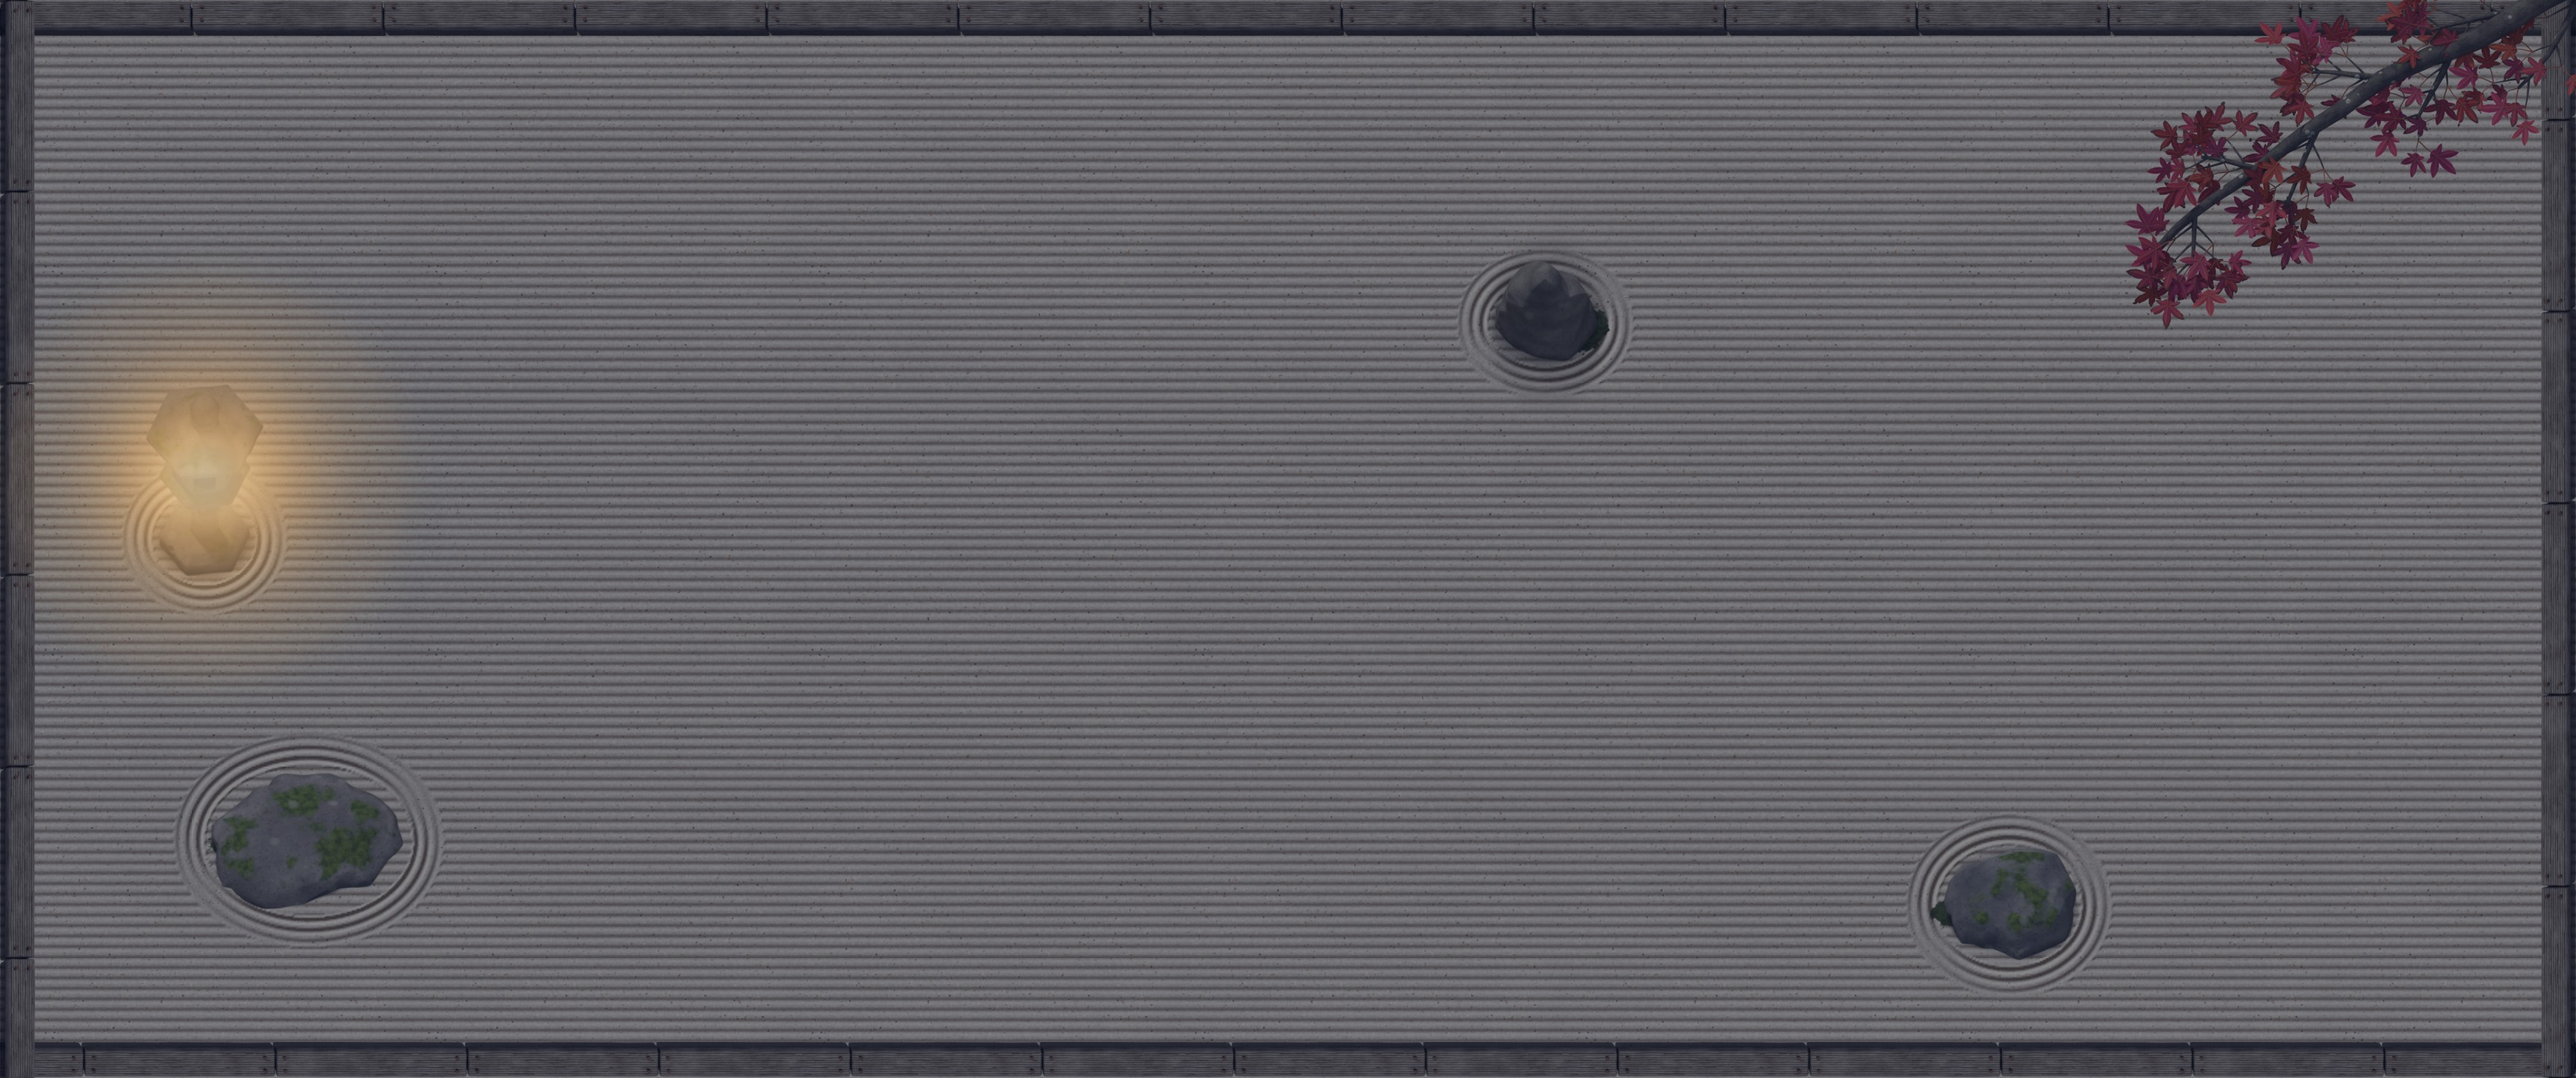
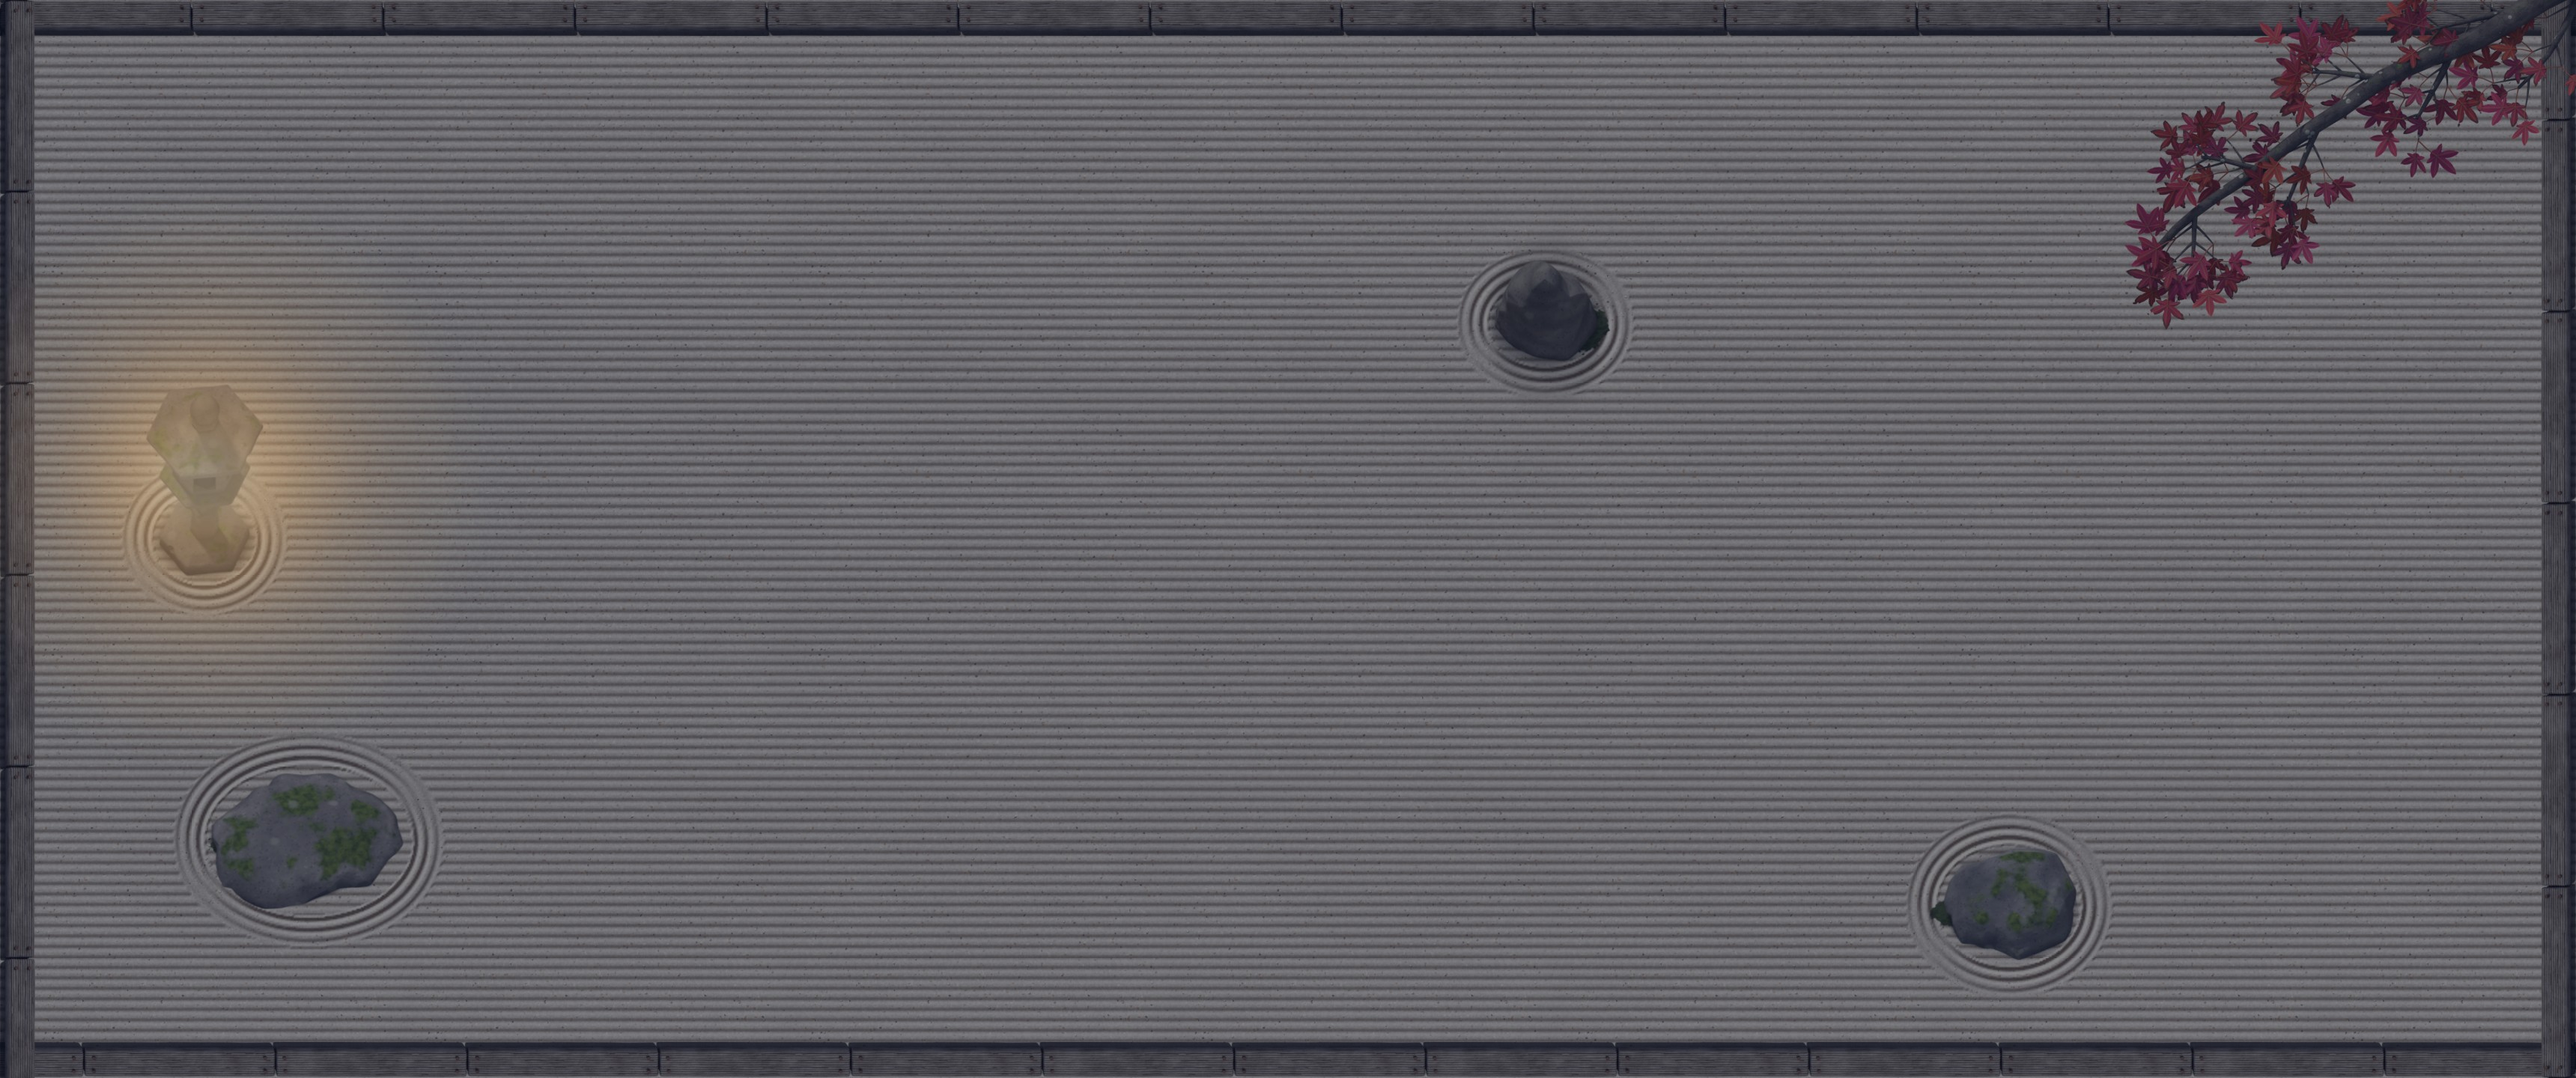
Softer night lantern glow in the garden; list both scenes in the extension description

Changed region(s): [[0.0311, 0.375, 0.1244, 0.5312]]

diff --git a/scenes/garden/scene.js b/scenes/garden/scene.js
@@ -90,7 +90,7 @@ export default function create(ctx) {
             S.ring(F, r, all, bb, true);
         const g = p.e === lantern && Array.isArray(lantern.light) && art('glow');
         if (g) {
-            const gs = 2.4 * s;  // the glow spreads well past the lantern
+            const gs = 3 * s;  // a wide, soft pool so the lantern itself stays readable
             glow = {e: g, x: x + lantern.light[0] * s - g.w * gs / 2, y: y + lantern.light[1] * s - g.h * gs / 2, gs};
         }
     }
@@ -132,7 +132,7 @@ export default function create(ctx) {
         tint.opacity = !lightsOn ? 120 : warm ? 40 : 0;
         shade.opacity = dark ? 60 : 0;
         if (glowA)
-            glowA.opacity = lightsOn ? 0 : warm ? 90 : 180;
+            glowA.opacity = lightsOn ? 0 : warm ? 60 : 115;
     };
 
     // Saved garden: replay strokes (scaled to this screen size), each as deep as its age leaves it.
